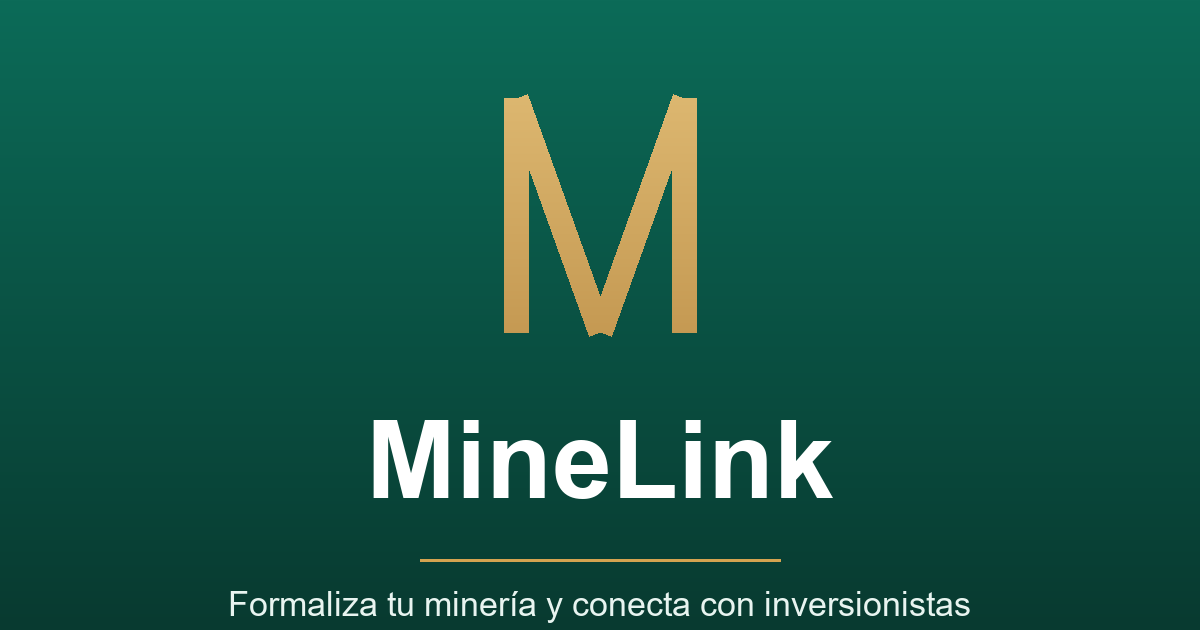
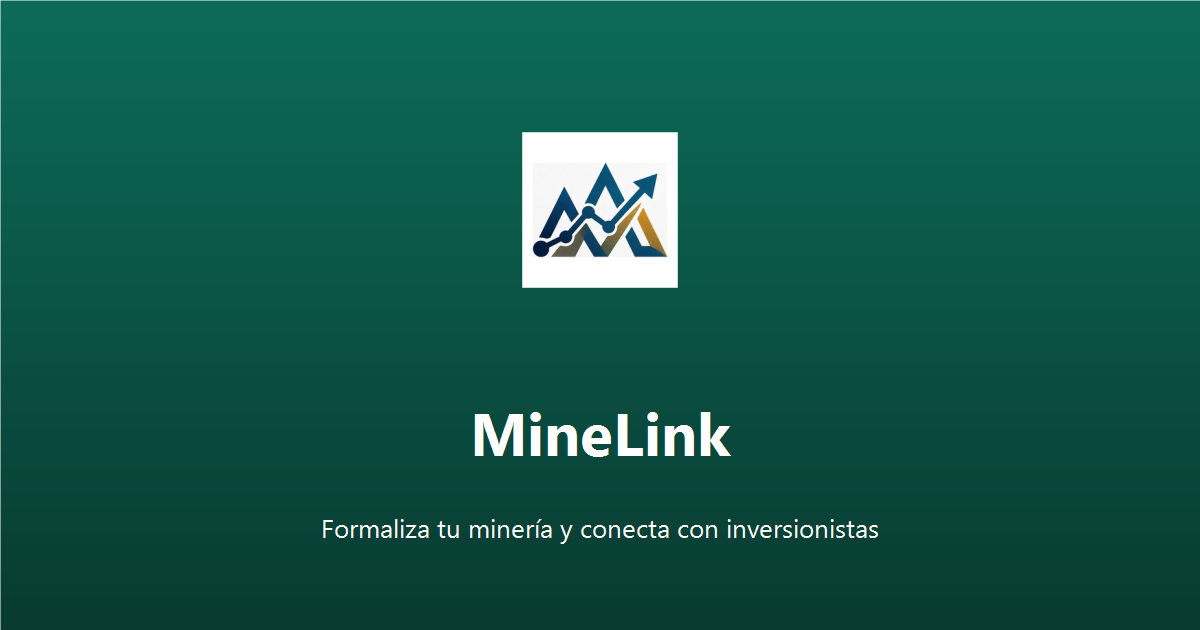
Cambio de icono

Changed region(s): [[0.2775, 0.6333, 0.74, 0.9048], [0.4008, 0.1508, 0.5858, 0.5429], [0.185, 0.9349, 0.8017, 0.9952]]

diff --git a/minelink-agente/frontend/src/App.tsx b/minelink-agente/frontend/src/App.tsx
@@ -115,7 +115,11 @@ function PublicHeader() {
   return (
     <header className="border-b border-black/10 dark:border-white/10">
       <div className="mx-auto flex max-w-6xl items-center justify-between gap-4 px-4 py-3">
-        <Link to="/" className="shrink-0 text-lg font-semibold tracking-tight text-acento">
+        <Link to="/" className="flex shrink-0 items-center gap-2 text-lg font-semibold tracking-tight text-acento">
+          {/* Emblema de la app (agosto 2026, pedido de Esthiven: "me gusta el
+              ícono de la app, quiero que esté en todas partes") — mismo
+              ícono que usa Android, generado desde el launcher de la app. */}
+          <img src="/marca-icono.png" alt="" className="h-6 w-6 rounded" />
           {MARCA}
         </Link>
         <nav className="hidden items-center gap-6 text-sm font-medium sm:flex">

diff --git a/minelink-agente/frontend/src/components/Footer.tsx b/minelink-agente/frontend/src/components/Footer.tsx
@@ -10,7 +10,10 @@ export function Footer() {
     <footer className="mt-12 border-t border-black/10 dark:border-white/10">
       <div className="mx-auto flex max-w-4xl flex-col gap-4 px-4 py-8 text-sm">
         <div className="flex flex-wrap items-center gap-x-6 gap-y-2">
-          <span className="font-semibold text-acento">{MARCA}</span>
+          <span className="flex items-center gap-2 font-semibold text-acento">
+            <img src="/marca-icono.png" alt="" className="h-5 w-5 rounded" />
+            {MARCA}
+          </span>
           <Link to="/como-funciona" className="text-texto-suave hover:text-acento dark:text-texto-suave-dark">
             Cómo funciona
           </Link>
